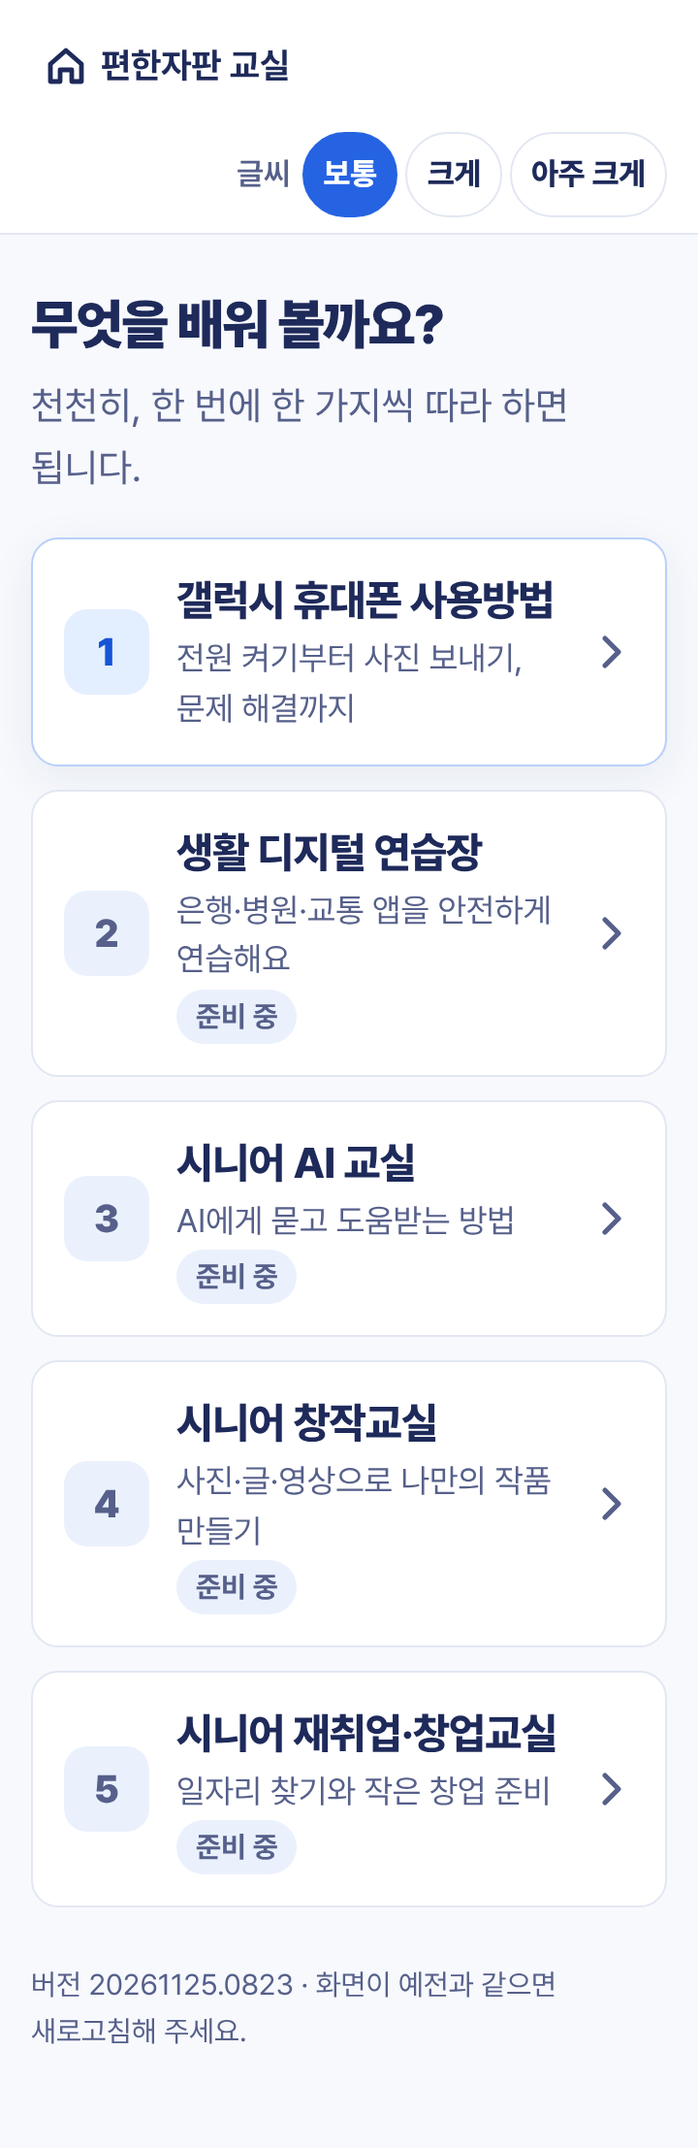
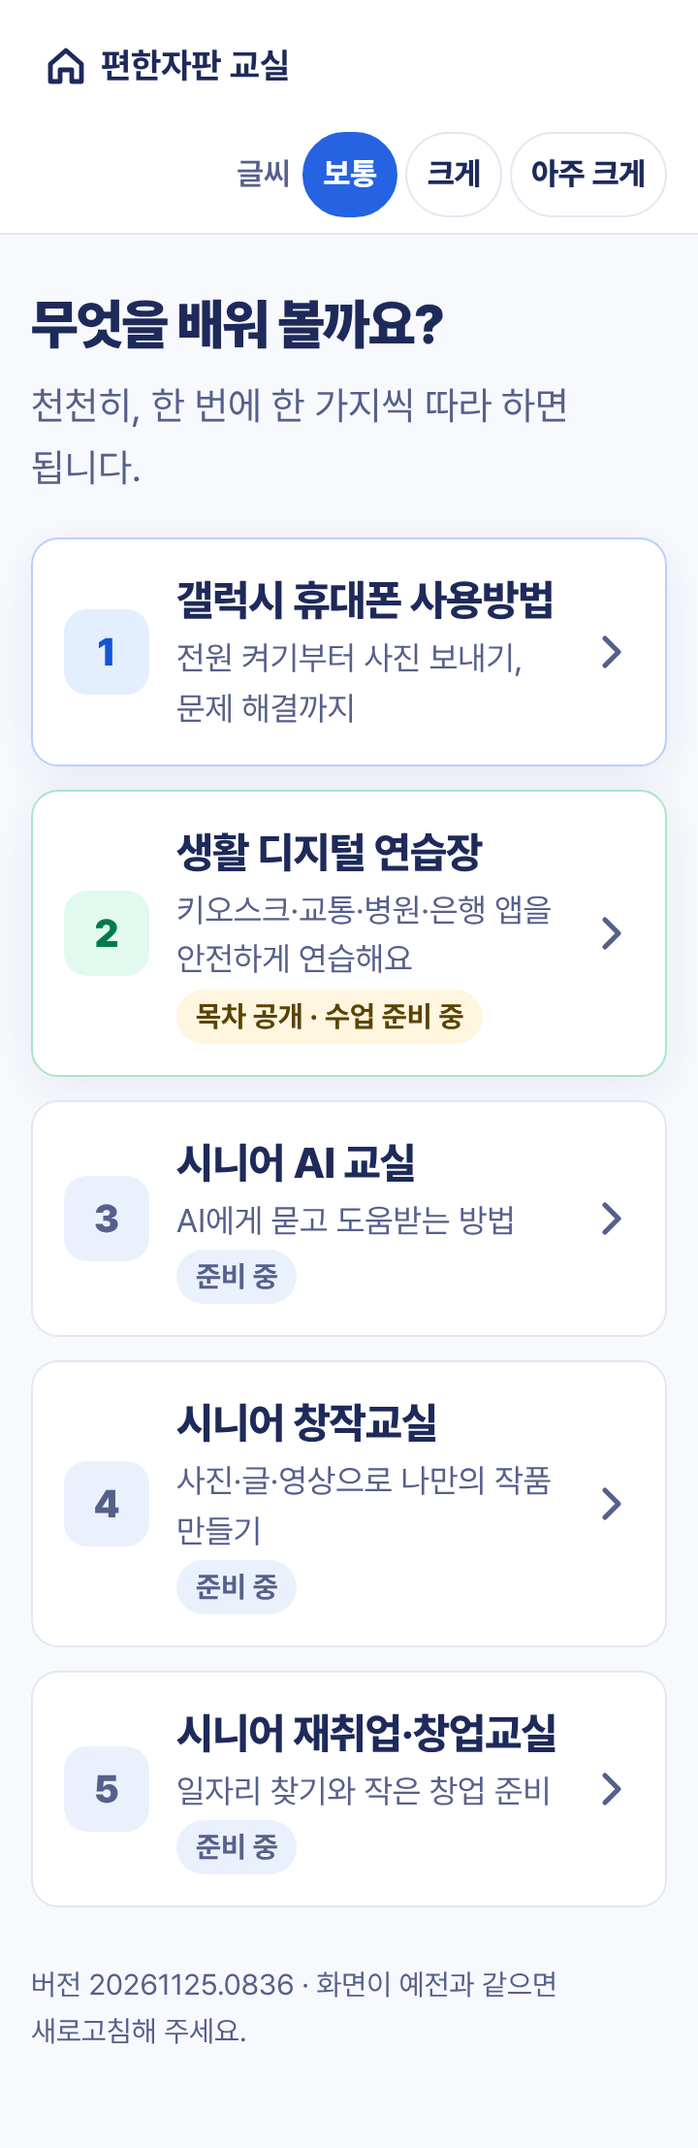
생활 디지털 연습장 목차: 6개 구분·20개 목차·98개 세부 수업 목록
- 가게와 식당, 교통과 이동, 병원과 건강, 은행과 돈, 관공서와 생활 서비스, 쇼핑과 여가
- 홈 2번 카테고리 열기(목차 공개 · 수업 준비 중), 세부 수업은 ‘수업 준비 중’ 표시
- 돈·비밀번호가 필요한 일은 연습 화면에서만 한다는 안내

Claude-Session: https://claude.ai/code/session_01Q3BcEgi969WHnWAarB2Rma

diff --git a/data/digital/index.js b/data/digital/index.js
@@ -1,0 +1,171 @@
+/**
+ * 생활 디지털 연습장 — 목차와 세부 수업 목록
+ *
+ * 가게·교통·병원·은행·관공서·쇼핑에서 쓰는 디지털 기기와 앱을 **연습 화면**으로 안전하게 익힌다.
+ * - 실제 돈이 나가거나 개인정보·비밀번호가 필요한 동작은 모두 연습 화면에서만 한다.
+ * - 연습 화면은 특정 회사·기관의 화면을 흉내 내지 않고, 공통 순서를 담은 일반 화면으로 만든다.
+ * - 세부 수업의 카드(cards)는 갤럭시 수업과 같은 형식으로 채운다. cards 가 없으면 ‘준비 중’으로 보인다.
+ */
+
+export const COURSE = {
+  id: 'digital',
+  title: '생활 디지털 연습장',
+  lead: '가게·교통·병원·은행에서 쓰는 기계와 앱을 연습 화면으로 먼저 해 봐요.',
+  safety: '돈이 나가거나 비밀번호가 필요한 일은 모두 연습 화면에서 해요. 실제 앱이나 기계에는 입력하지 않아요.',
+};
+
+export const GROUPS = [
+  { id: 'shop', title: '가게와 식당', cat: 'cat-1' },
+  { id: 'move', title: '교통과 이동', cat: 'cat-3' },
+  { id: 'health', title: '병원과 건강', cat: 'cat-2' },
+  { id: 'money', title: '은행과 돈', cat: 'cat-4' },
+  { id: 'public', title: '관공서와 생활 서비스', cat: 'cat-1' },
+  { id: 'leisure', title: '쇼핑과 여가', cat: 'cat-3' },
+];
+
+const L = (id, title, q = []) => ({ id, title, q, cards: [] });
+
+export const CHAPTERS = [
+  { num: 1, group: 'shop', title: '키오스크로 음식 주문하기', desc: '패스트푸드점·분식집 주문 기계', lessons: [
+    L('d01-start', '처음 화면에서 매장·포장 고르기', ['키오스크', '무인 주문']),
+    L('d01-menu', '메뉴 찾고 고르기', ['메뉴 고르기']),
+    L('d01-option', '세트·음료·크기 바꾸기', ['세트 변경']),
+    L('d01-count', '수량 바꾸고 빼기', ['수량', '취소']),
+    L('d01-cart', '장바구니 확인하기', ['장바구니']),
+    L('d01-pay', '카드로 결제하고 번호표 받기', ['키오스크 결제', '번호표']),
+  ] },
+  { num: 2, group: 'shop', title: '카페 주문과 테이블 QR 주문', desc: '카페 키오스크, 식탁의 QR코드 주문', lessons: [
+    L('d02-cafe', '카페 키오스크로 음료 주문하기', ['카페 주문', '커피 주문']),
+    L('d02-hotice', '따뜻하게·차갑게, 크기 고르기', ['아이스', '핫']),
+    L('d02-qr', '식탁 QR코드로 메뉴 열기', ['테이블 주문', 'QR 주문']),
+    L('d02-qrorder', 'QR 메뉴에서 주문 넣기', ['QR 결제']),
+    L('d02-call', '직원 호출과 추가 주문하기', ['직원 호출']),
+  ] },
+  { num: 3, group: 'shop', title: '무인 계산대와 셀프 서비스', desc: '마트 셀프 계산대, 무인 가게', lessons: [
+    L('d03-scan', '바코드 찍어 물건 담기', ['셀프 계산대', '바코드']),
+    L('d03-weight', '무게 다는 채소·과일 계산하기', ['저울']),
+    L('d03-bag', '봉투 사고 할인 쿠폰 쓰기', ['봉투', '쿠폰']),
+    L('d03-pay', '결제하고 영수증 받기', ['셀프 결제', '영수증']),
+    L('d03-help', '문제가 생겼을 때 직원 부르기', ['직원 부르기']),
+  ] },
+  { num: 4, group: 'move', title: '기차표 예매하기', desc: '기차 예매 앱(예: 코레일톡·SRT)의 공통 순서', lessons: [
+    L('d04-search', '출발역·도착역과 날짜 고르기', ['기차표', 'KTX', '열차 예매']),
+    L('d04-train', '열차 시간 고르기', ['열차 시간']),
+    L('d04-seat', '좌석과 경로 할인 고르기', ['좌석', '경로 할인']),
+    L('d04-pay', '결제하고 승차권 확인하기', ['승차권', '모바일 승차권']),
+    L('d04-change', '예매 바꾸고 취소하기', ['환불', '취소']),
+  ] },
+  { num: 5, group: 'move', title: '고속·시외버스 예매하기', desc: '버스 예매 앱과 터미널 무인 발권기', lessons: [
+    L('d05-search', '터미널과 날짜 고르기', ['고속버스', '시외버스']),
+    L('d05-seat', '시간과 좌석 고르기', ['버스 좌석']),
+    L('d05-pay', '결제하고 모바일 승차권 보기', ['버스 승차권']),
+    L('d05-kiosk', '터미널 무인 발권기 쓰기', ['발권기']),
+    L('d05-cancel', '예매 취소하기', ['버스 취소']),
+  ] },
+  { num: 6, group: 'move', title: '택시 부르기', desc: '택시 호출 앱의 공통 순서', lessons: [
+    L('d06-where', '출발지와 목적지 넣기', ['택시', '택시 부르기']),
+    L('d06-call', '택시 종류 고르고 호출하기', ['호출']),
+    L('d06-wait', '오는 택시 확인하고 기다리기', ['차 번호']),
+    L('d06-pay', '내릴 때 결제와 영수증', ['택시 결제']),
+    L('d06-family', '가족이 대신 불러 주는 방법 알아보기', ['대신 호출']),
+  ] },
+  { num: 7, group: 'move', title: '버스·지하철 정보 보기', desc: '도착 정보, 길 찾기, 교통카드 잔액', lessons: [
+    L('d07-arrive', '버스 도착 시간 보기', ['버스 도착', '정류장']),
+    L('d07-route', '지하철 길 찾기와 환승 보기', ['지하철', '환승']),
+    L('d07-last', '막차 시간 확인하기', ['막차']),
+    L('d07-card', '교통카드 잔액 확인하고 충전하기', ['교통카드 충전', '잔액']),
+    L('d07-senior', '어르신 교통카드 알아보기', ['경로 우대', '어르신 교통카드']),
+  ] },
+  { num: 8, group: 'health', title: '병원 예약과 접수', desc: '병원 예약 앱, 병원 무인 접수기', lessons: [
+    L('d08-find', '가까운 병원 찾기', ['병원 찾기', '진료 시간']),
+    L('d08-book', '진료 예약하기', ['병원 예약']),
+    L('d08-kiosk', '병원 무인 접수기로 접수하기', ['병원 접수', '접수기']),
+    L('d08-wait', '대기 순서 확인하기', ['대기 순서']),
+    L('d08-pay', '진료비 무인 수납하기', ['수납', '진료비']),
+  ] },
+  { num: 9, group: 'health', title: '약과 건강 관리', desc: '복약 알림, 처방전, 건강 기록', lessons: [
+    L('d09-alarm', '약 먹을 시간 알림 맞추기', ['복약 알림', '약 알림']),
+    L('d09-pharmacy', '문 연 약국 찾기', ['약국', '야간 약국']),
+    L('d09-record', '혈압·혈당 기록하기', ['혈압', '혈당']),
+    L('d09-checkup', '건강검진 결과 확인 방법 알아보기', ['건강검진']),
+    L('d09-video', '비대면 진료 알아보기', ['비대면 진료', '원격 진료']),
+  ] },
+  { num: 10, group: 'health', title: '건강보험과 의료 정보', desc: '공공 건강보험 앱의 공통 기능', lessons: [
+    L('d10-login', '간편 인증으로 로그인하기', ['건강보험 로그인']),
+    L('d10-history', '병원 다닌 기록 보기', ['진료 기록']),
+    L('d10-medicine', '처방받은 약 기록 보기', ['투약 기록']),
+    L('d10-cert', '자격 확인서 받기', ['보험 증명']),
+  ] },
+  { num: 11, group: 'money', title: '모바일 뱅킹 시작하기', desc: '은행 앱 첫 설정(연습 화면)', lessons: [
+    L('d11-what', '은행 앱으로 할 수 있는 일', ['은행 앱', '모바일 뱅킹']),
+    L('d11-login', '간편 비밀번호·지문으로 로그인하기', ['은행 로그인', '간편 비밀번호']),
+    L('d11-balance', '내 계좌 잔액 보기', ['잔액', '통장']),
+    L('d11-history', '입출금 내역 보기', ['거래 내역']),
+    L('d11-logout', '다 쓰면 로그아웃하기', ['로그아웃']),
+  ] },
+  { num: 12, group: 'money', title: '계좌 이체 연습하기', desc: '돈 보내기를 연습 화면에서', lessons: [
+    L('d12-account', '받는 사람 계좌 넣기', ['계좌이체', '송금']),
+    L('d12-amount', '보낼 금액 넣기', ['금액']),
+    L('d12-check', '받는 사람 이름 꼭 확인하기', ['이체 확인']),
+    L('d12-confirm', '비밀번호로 이체 마치기', ['이체 비밀번호']),
+    L('d12-favorite', '자주 보내는 계좌 등록하기', ['자주 쓰는 계좌']),
+    L('d12-mistake', '잘못 보냈을 때 할 일', ['착오 송금', '잘못 보냄']),
+  ] },
+  { num: 13, group: 'money', title: '간편결제와 QR 결제', desc: '휴대폰으로 가게에서 결제하기', lessons: [
+    L('d13-what', '간편결제가 무엇인지 알아보기', ['간편결제', '페이']),
+    L('d13-barcode', '결제 바코드 보여 주기', ['바코드 결제']),
+    L('d13-qr', '가게 QR코드 찍어 결제하기', ['QR 결제']),
+    L('d13-history', '결제 내역 확인하기', ['결제 내역']),
+  ] },
+  { num: 14, group: 'money', title: '금융 사기 막기', desc: '보이스피싱·스미싱·가짜 앱', lessons: [
+    L('d14-voice', '보이스피싱 전화 알아차리기', ['보이스피싱', '사기 전화']),
+    L('d14-sms', '가짜 문자와 링크 구별하기', ['스미싱', '사기 문자']),
+    L('d14-app', '모르는 앱 설치 요구 거절하기', ['원격 앱', '가짜 앱']),
+    L('d14-family', '가족 사칭 메시지 확인하기', ['가족 사칭']),
+    L('d14-report', '당했을 때 바로 신고하기', ['신고', '지급 정지']),
+  ] },
+  { num: 15, group: 'public', title: '민원 서류 떼기', desc: '정부 민원 서비스와 무인 민원발급기', lessons: [
+    L('d15-online', '휴대폰으로 민원 서류 신청하기', ['주민등록등본', '민원 서류']),
+    L('d15-cert', '간편 인증 알아보기', ['간편 인증', '본인 확인']),
+    L('d15-kiosk', '무인 민원발급기 쓰기', ['무인 발급기']),
+    L('d15-print', '발급한 서류 저장하고 보내기', ['서류 저장']),
+  ] },
+  { num: 16, group: 'public', title: '공과금과 생활 요금 내기', desc: '전기·가스·수도 요금, 관리비', lessons: [
+    L('d16-bill', '모바일 고지서 확인하기', ['고지서', '공과금']),
+    L('d16-pay', '요금 납부 연습하기', ['요금 납부']),
+    L('d16-auto', '자동 납부 알아보기', ['자동이체']),
+    L('d16-apt', '아파트 관리비 확인하기', ['관리비']),
+  ] },
+  { num: 17, group: 'public', title: '복지 혜택 찾아보기', desc: '어르신이 받을 수 있는 혜택 찾기', lessons: [
+    L('d17-find', '나에게 맞는 복지 서비스 찾기', ['복지', '혜택']),
+    L('d17-pension', '기초연금·국민연금 확인 방법 알아보기', ['연금']),
+    L('d17-apply', '온라인 신청 순서 알아보기', ['신청']),
+    L('d17-help', '주민센터에 물어볼 것 정리하기', ['주민센터']),
+  ] },
+  { num: 18, group: 'leisure', title: '배달 앱으로 음식 시키기', desc: '배달 앱의 공통 순서', lessons: [
+    L('d18-address', '배달 받을 주소 넣기', ['배달', '배달 주소']),
+    L('d18-store', '가게 찾고 메뉴 고르기', ['배달 메뉴']),
+    L('d18-request', '요청 사항 적기', ['요청 사항']),
+    L('d18-pay', '결제하고 배달 상황 보기', ['배달 결제', '배달 현황']),
+    L('d18-review', '주문 취소와 문의하기', ['주문 취소']),
+  ] },
+  { num: 19, group: 'leisure', title: '온라인 쇼핑하기', desc: '물건 찾기부터 반품까지', lessons: [
+    L('d19-search', '물건 검색하고 비교하기', ['쇼핑', '인터넷 쇼핑']),
+    L('d19-cart', '장바구니 담고 주문하기', ['장바구니', '주문']),
+    L('d19-address', '배송지 넣고 결제하기', ['배송지']),
+    L('d19-track', '배송 조회하기', ['배송 조회', '택배']),
+    L('d19-return', '반품·교환 신청하기', ['반품', '교환']),
+    L('d19-safe', '가짜 쇼핑몰 조심하기', ['사기 쇼핑몰']),
+  ] },
+  { num: 20, group: 'leisure', title: '영화·공연 예매와 여가', desc: '예매 앱, 무인 발권기, 도서관', lessons: [
+    L('d20-movie', '영화 시간과 좌석 예매하기', ['영화 예매']),
+    L('d20-kiosk', '무인 발권기로 표 뽑기', ['영화표', '발권']),
+    L('d20-show', '공연·전시 예매하기', ['공연 예매']),
+    L('d20-library', '도서관 책 검색과 예약하기', ['도서관']),
+    L('d20-video', '동영상 앱으로 강좌 보기', ['동영상 강좌']),
+  ] },
+];
+
+export function allLessons() {
+  return CHAPTERS.flatMap((chapter) => chapter.lessons.map((lesson) => ({ lesson, chapter })));
+}

diff --git a/assets/app.js b/assets/app.js
@@ -12,13 +12,14 @@
  *
  * 진행 상황과 글씨 크기는 이 기기의 localStorage 에만 저장한다(서버로 보내지 않음).
  */
-import { CATEGORIES } from '../data/categories.js?v=20261125.0823';
-import { CHAPTERS, GROUPS, findLesson, allLessons } from '../data/galaxy/index.js?v=20261125.0823';
-import { BASE } from '../data/galaxy/helpers.js?v=20261125.0823';
-import { renderScreen } from './screens.js?v=20261125.0823';
-import { appInfo, appIconStandalone } from './apps.js?v=20261125.0823';
-import { speechText, stepWords, pickVoice, koreanVoices, voiceLabel, SPEECH } from './speech.js?v=20261125.0823';
-import { VERSION } from './version.js?v=20261125.0823';
+import { CATEGORIES } from '../data/categories.js?v=20261125.0836';
+import { CHAPTERS, GROUPS, findLesson, allLessons } from '../data/galaxy/index.js?v=20261125.0836';
+import * as DIGITAL from '../data/digital/index.js?v=20261125.0836';
+import { BASE } from '../data/galaxy/helpers.js?v=20261125.0836';
+import { renderScreen } from './screens.js?v=20261125.0836';
+import { appInfo, appIconStandalone } from './apps.js?v=20261125.0836';
+import { speechText, stepWords, pickVoice, koreanVoices, voiceLabel, SPEECH } from './speech.js?v=20261125.0836';
+import { VERSION } from './version.js?v=20261125.0836';
 
 const STORE_KEY = 'dojeon365.galaxy.v1';
 // 목차 구분별 분야 색(디자인 시스템): 기초 파랑, 생활 초록, 응용 보라, 고급 및 문제 해결 남색
@@ -89,7 +90,7 @@ function viewHome() {
       ${CATEGORIES.map((c, i) => `<li>
         <a class="cat ${HOME_CAT[i]} ${c.ready ? '' : 'cat--soon'}" href="${c.ready ? c.href : `#/soon/${c.id}`}">
           <span class="cat__num" aria-hidden="true">${i + 1}</span>
-          <span class="cat__body"><span class="cat__title">${esc(c.title)}</span><span class="cat__desc">${esc(c.desc)}</span>${c.ready ? '' : '<span class="badge badge--soon">준비 중</span>'}</span>
+          <span class="cat__body"><span class="cat__title">${esc(c.title)}</span><span class="cat__desc">${esc(c.desc)}</span>${!c.ready ? '<span class="badge badge--soon">준비 중</span>' : c.preparing ? '<span class="badge badge--doing">목차 공개 · 수업 준비 중</span>' : ''}</span>
           ${ICON.chev}
         </a></li>`).join('')}
     </ul>
@@ -374,6 +375,53 @@ function viewDone(lesson, chapter) {
   </main>`;
 }
 
+/* ---------- 생활 디지털 연습장 ---------- */
+
+function digitalLessonRow(lesson) {
+  const ready = lesson.cards.length > 0;
+  return `<li><div class="lesson-row lesson-row--soon" aria-disabled="true">
+    <span class="lesson-row__body"><span class="lesson-row__title">${esc(lesson.title)}</span>
+      <span class="lesson-row__meta">${ready ? `${lesson.cards.length}단계` : '<span class="badge badge--soon">수업 준비 중</span>'}</span></span></div></li>`;
+}
+
+function viewDigital() {
+  const { COURSE, GROUPS: DG, CHAPTERS: DC, allLessons: all } = DIGITAL;
+  document.title = `${COURSE.title} | 편한자판 시니어 교육`;
+  return `${topbar({ back: '#/', backLabel: '홈으로' })}
+  <main class="page" id="main">
+    <h1 class="page__title">${esc(COURSE.title)}</h1>
+    <p class="lead">${esc(COURSE.lead)} 목차 ${DC.length}개, 수업 ${all().length}개예요.</p>
+    <p class="notice">${esc(COURSE.safety)}</p>
+    ${DG.map((g) => `<section class="toc-group ${g.cat}" aria-labelledby="dg-${g.id}">
+      <h2 class="toc-group__h" id="dg-${g.id}">${esc(g.title)}</h2>
+      <ol class="toc">
+        ${DC.filter((ch) => ch.group === g.id).map((ch) => `<li>
+          <a class="toc__row" href="#/digital/${two(ch.num)}">
+            <span class="toc__num">${two(ch.num)}</span>
+            <span class="toc__body"><span class="toc__title">${esc(ch.title)}</span>
+              <span class="toc__meta">${esc(ch.desc)} · 수업 ${ch.lessons.length}개</span></span>
+            ${ICON.chev}
+          </a></li>`).join('')}
+      </ol>
+    </section>`).join('')}
+  </main>`;
+}
+
+function viewDigitalChapter(num) {
+  const { CHAPTERS: DC, GROUPS: DG, COURSE } = DIGITAL;
+  const ch = DC.find((c) => c.num === Number(num));
+  if (!ch) return viewNotFound();
+  const g = DG.find((x) => x.id === ch.group);
+  document.title = `${two(ch.num)}. ${ch.title} | ${COURSE.title}`;
+  return `${topbar({ back: '#/digital', backLabel: '목차로' })}
+  <main class="page ${g?.cat ?? ''}" id="main">
+    <p class="eyebrow">${esc(g?.title ?? '')} · 목차 ${two(ch.num)}</p>
+    <h1 class="page__title">${two(ch.num)}. ${esc(ch.title)}</h1>
+    <p class="lead">${esc(ch.desc)}. 연습 화면 수업을 준비하고 있어요.</p>
+    <ul class="lesson-list">${ch.lessons.map(digitalLessonRow).join('')}</ul>
+  </main>`;
+}
+
 function viewNotFound() {
   document.title = '찾을 수 없어요';
   return `${topbar({ back: '#/galaxy', backLabel: '목차로' })}<main class="page" id="main"><h1 class="page__title">화면을 찾을 수 없어요</h1><a class="btn btn--primary btn--block" href="#/galaxy">목차로 가기</a></main>`;
@@ -412,6 +460,8 @@ function route() {
   else if (parts[0] === 'soon') html = viewSoon(parts[1]);
   else if (parts[0] === 'galaxy' && !parts[1]) html = viewGalaxy();
   else if (parts[0] === 'galaxy') html = viewChapter(parts[1]);
+  else if (parts[0] === 'digital' && !parts[1]) html = viewDigital();
+  else if (parts[0] === 'digital') html = viewDigitalChapter(parts[1]);
   else if (parts[0] === 'lesson') {
     const found = findLesson(parts[1]);
     if (!found) html = viewNotFound();

diff --git a/data/categories.js b/data/categories.js
@@ -1,7 +1,7 @@
 /** 홈 카테고리 5개. ready: 이번에 수업을 제공하는 카테고리 */
 export const CATEGORIES = [
   { id: 'galaxy', title: '갤럭시 휴대폰 사용방법', desc: '전원 켜기부터 사진 보내기, 문제 해결까지', href: '#/galaxy', ready: true },
-  { id: 'digital-life', title: '생활 디지털 연습장', desc: '은행·병원·교통 앱을 안전하게 연습해요', ready: false },
+  { id: 'digital-life', title: '생활 디지털 연습장', desc: '키오스크·교통·병원·은행 앱을 안전하게 연습해요', href: '#/digital', ready: true, preparing: true },
   { id: 'ai', title: '시니어 AI 교실', desc: 'AI에게 묻고 도움받는 방법', ready: false },
   { id: 'creative', title: '시니어 창작교실', desc: '사진·글·영상으로 나만의 작품 만들기', ready: false },
   { id: 'career', title: '시니어 재취업·창업교실', desc: '일자리 찾기와 작은 창업 준비', ready: false },

diff --git a/data/galaxy/ch14-22.js b/data/galaxy/ch14-22.js
@@ -1,5 +1,5 @@
 /** [응용] 14~18, [고급 및 문제 해결] 19~22 */
-import { lesson, app, tap, menu, path, toggle, self, look, swipe, hold, back, goHome, openQuick, M, SRC, MENUS, SIDE, HOME, QUICK, PRACTICE_ONLY } from './helpers.js?v=20261125.0823';
+import { lesson, app, tap, menu, path, toggle, self, look, swipe, hold, back, goHome, openQuick, M, SRC, MENUS, SIDE, HOME, QUICK, PRACTICE_ONLY } from './helpers.js?v=20261125.0836';
 
 const WALLET = { kind: 'app', title: '월렛', back: false, actions: ['추가'], hero: '결제 카드 ●●●● 1234', heroName: '결제 카드', heroColor: '#283593', lines: ['교통 카드 · 멤버십 · 모바일 신분증'] };
 const WALLET_ADD = { kind: 'dialog', style: 'sheet', title: '추가', buttons: ['결제 카드', '교통 카드', '모바일 신분증', '멤버십', '티켓·쿠폰'] };

diff --git a/index.html b/index.html
@@ -9,9 +9,9 @@
 <title>편한자판 시니어 교육</title>
 <link rel="icon" href="assets/icon.svg" type="image/svg+xml">
 <link rel="manifest" href="site.webmanifest">
-<link rel="stylesheet" href="assets/fonts/pretendard/pretendardvariable-dynamic-subset.css?v=20261125.0823">
-<link rel="stylesheet" href="assets/app.css?v=20261125.0823">
-<script type="module" src="assets/app.js?v=20261125.0823"></script>
+<link rel="stylesheet" href="assets/fonts/pretendard/pretendardvariable-dynamic-subset.css?v=20261125.0836">
+<link rel="stylesheet" href="assets/app.css?v=20261125.0836">
+<script type="module" src="assets/app.js?v=20261125.0836"></script>
 </head>
 <body>
 <a class="sr-only" href="#main">본문 바로가기</a>

diff --git a/assets/app.css b/assets/app.css
@@ -292,3 +292,6 @@ svg { display: block; }
 .voice__opt input { width: 1.4rem; height: 1.4rem; accent-color: var(--primary); flex: none; }
 .voice__opt:has(input:checked) { border-color: var(--primary); background: var(--surface-2); }
 .voice__opt em { font-style: normal; font-size: 0.9375rem; color: var(--cat-3); margin-left: 6px; }
+.notice { margin: 0 0 24px; padding: 14px 16px; border-radius: var(--radius); background: var(--surface-2); border: 1px solid var(--line); font-size: 1.125rem; }
+.lesson-row--soon { cursor: default; }
+.lesson-row--soon:hover { transform: none; border-color: var(--line); }

diff --git a/data/galaxy/ch07-13.js b/data/galaxy/ch07-13.js
@@ -1,5 +1,5 @@
 /** [생활] 07~13 */
-import { lesson, app, tap, menu, path, toggle, self, look, swipe, hold, back, goHome, openQuick, openNoti, M, SRC, MENUS, SIDE, HOME, APPS, QUICK, NOTI, PRACTICE_ONLY } from './helpers.js?v=20261125.0823';
+import { lesson, app, tap, menu, path, toggle, self, look, swipe, hold, back, goHome, openQuick, openNoti, M, SRC, MENUS, SIDE, HOME, APPS, QUICK, NOTI, PRACTICE_ONLY } from './helpers.js?v=20261125.0836';
 
 const Q = (on) => ({ ...QUICK, on });
 

diff --git a/data/galaxy/index.js b/data/galaxy/index.js
@@ -1,7 +1,7 @@
 /** 갤럭시 휴대폰 사용방법: 22개 목차 */
-import { BASIC } from './ch01-06.js?v=20261125.0823';
-import { LIFE } from './ch07-13.js?v=20261125.0823';
-import { APPLY, ADV } from './ch14-22.js?v=20261125.0823';
+import { BASIC } from './ch01-06.js?v=20261125.0836';
+import { LIFE } from './ch07-13.js?v=20261125.0836';
+import { APPLY, ADV } from './ch14-22.js?v=20261125.0836';
 
 export const GROUPS = [
   { id: 'basic', title: '기초' },

diff --git a/data/galaxy/ch01-06.js b/data/galaxy/ch01-06.js
@@ -1,5 +1,5 @@
 /** [기초] 01~06 */
-import { lesson, app, tap, menu, path, toggle, self, look, swipe, hold, back, goHome, M, SRC, MENUS, SIDE, HOME, APPS, PHONE_TABS, PRACTICE_ONLY } from './helpers.js?v=20261125.0823';
+import { lesson, app, tap, menu, path, toggle, self, look, swipe, hold, back, goHome, M, SRC, MENUS, SIDE, HOME, APPS, PHONE_TABS, PRACTICE_ONLY } from './helpers.js?v=20261125.0836';
 
 const POWER = { kind: 'dialog', style: 'power' };
 

diff --git a/assets/screens.js b/assets/screens.js
@@ -9,7 +9,7 @@
  * - 실제 갤럭시 사진으로 바꿀 때는 card.photo 를 넣으면 이 그림 대신 사진이 쓰인다(app.js 참고).
  */
 
-import { appIconSvg, appInfo, settingIconSvg } from './apps.js?v=20261125.0823';
+import { appIconSvg, appInfo, settingIconSvg } from './apps.js?v=20261125.0836';
 
 const W = 360;
 const H = 640;

diff --git a/data/galaxy/helpers.js b/data/galaxy/helpers.js
@@ -16,7 +16,7 @@
  * 메뉴 이름은 삼성전자 갤럭시 S26 시리즈 사용 설명서(Android 17, Rev.1.0, 2026년 9월)를 기준으로 한다.
  */
 
-import { appInfo } from '../../assets/apps.js?v=20261125.0823';
+import { appInfo } from '../../assets/apps.js?v=20261125.0836';
 
 /* ---------- 출처 ---------- */
 
